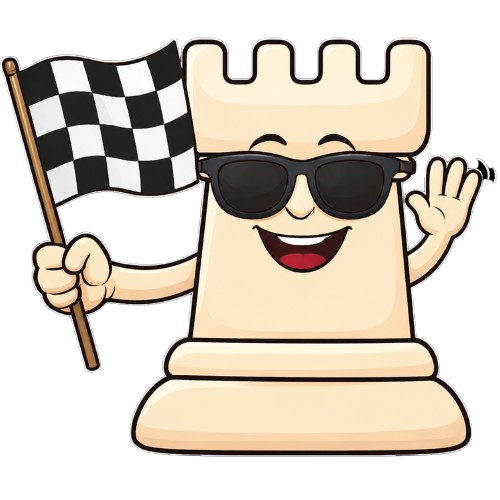
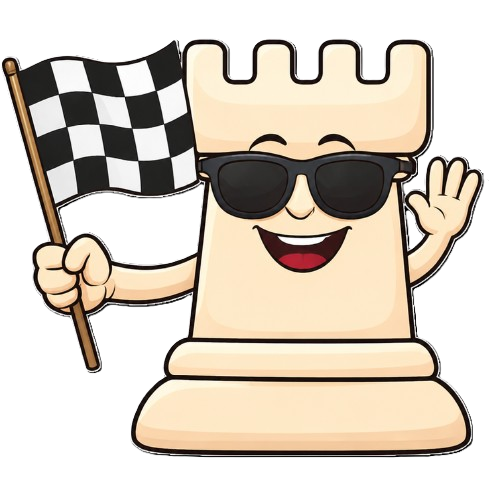
fix simultan promotion popping up over each board, fix bye pic

diff --git a/src/app/features/classroom/student-roster/student-roster.ts b/src/app/features/classroom/student-roster/student-roster.ts
@@ -46,6 +46,7 @@ export class StudentRoster {
   // Simul
   simulChessMap = new Map<string, Chess>();
   simulConfigs = signal<Record<string, Config>>({});
+  promotionAgainst = signal<string>('');
 
   exerciseTitles = computed(() => {
     const globalList = this.store.loadedList();
@@ -391,7 +392,9 @@ export class StudentRoster {
     if (!chess || chess.turn() !== color) return;
     const piece = chess.get(orig as any)!;
     if (isPawnPromotion(dest, piece)){
+      this.promotionAgainst.set(studentName);
       const role = await this.promotionService.requestPromotion(orig, dest);
+      this.promotionAgainst.set('');
       this.executeMove(orig, dest,studentName, role);
       return;
     } 

diff --git a/src/app/features/classroom/student-roster/student-roster.html b/src/app/features/classroom/student-roster/student-roster.html
@@ -59,7 +59,7 @@
               <app-chess-board  [config]="store.mode()==='simul' || duelColors()[student.name] !== undefined ? simulBoardConfigFor(student.name) : boardConfigFor(student.fen)" #studentBoard></app-chess-board>
             }
           </div>
-          @if (promotionService.pending()) {
+          @if (promotionService.pending() && this.promotionAgainst()===student.name) {
             <app-promotion color="white" (promote)="promotionService.completePromotion($event)"></app-promotion>
           } 
           <!-- <div class="student-status">
